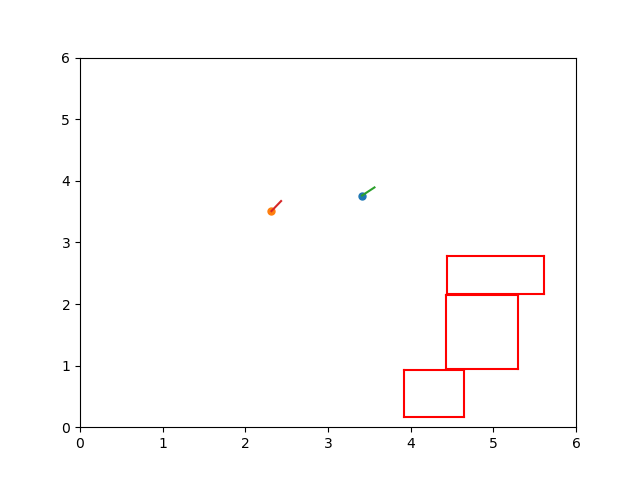
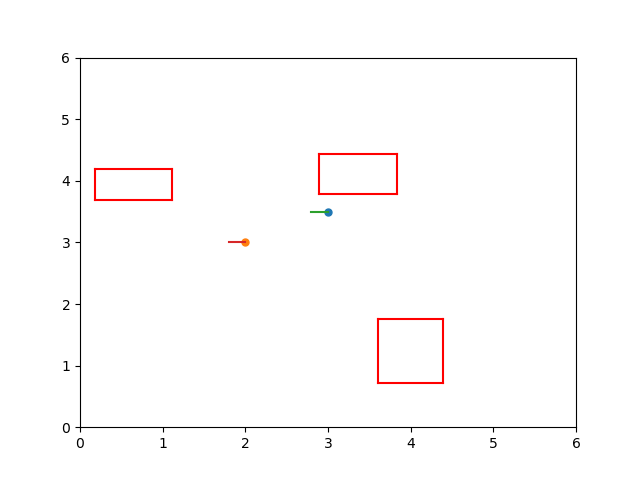
Turns out it is broken, active actions are not making things happen

diff --git a/infant_simulator/src/infant_simulator/robot.py b/infant_simulator/src/infant_simulator/robot.py
@@ -213,13 +213,13 @@ class Robot:
         
         self.set_action_status() #??? # Actions: Success, Failure, or Running
 
-        action = self.move_toward(self.known_world)
+        #action = self.move_toward(self.known_world)
         # action = self.move_away(self.known_world)
         #action = self.spin()
 
         # ??? DOES THIS NEED TO BE IN A LOOP
 
-        return action, active_actions
+        return active_actions
 
     def condition_updates(self):
         """
@@ -551,14 +551,15 @@ class Controller:
             self.world.infant_pos_update()
             self.world.robot_pos_update()
             self.world.world_plot()
-            robot_action, active_actions = self.robot.do_iteration()
+            active_actions = self.robot.do_iteration()
+            print(active_actions)
 
             print("Active ids: ", self.robot.bt.active_ids)
 
             num_iterations += 1
             
-            if robot_action == True:
-                robot_action = 1
+            #if robot_action == True:
+                #robot_action = 1
             
             # print("Robot location is: ", self.robot.robot_pos)
 
@@ -569,7 +570,7 @@ class Controller:
             # we call infant_step only 20% of the time and infant does action
             # if random number > 10:
                 # we decided to do something different
-            infant_action = self.infant.infant_step(self.robot.robot_pos, robot_action, self.world.centers)
+            ####infant_action = self.infant.infant_step(self.robot.robot_pos, robot_action, self.world.centers)
 
             # print('Infant action: ', infant_action)
             time.sleep(3)
